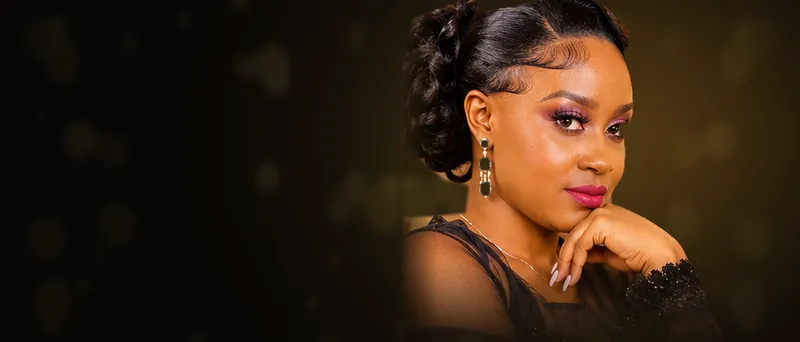
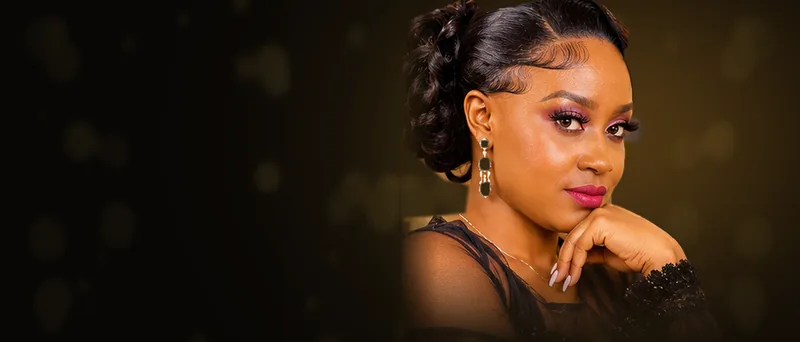
Theme 1.152.2: slide 1 right eye restored in full from the branding PDF render (the PDF cut-out clipped its outer corner); hero image URLs carry the theme version so browsers drop the old photo

diff --git a/nura-beauty/style.css b/nura-beauty/style.css
@@ -4,7 +4,7 @@ Theme URI: https://nurabeauty.co.ke
 Author: NURA - The House of Radiant Confidence
 Author URI: https://nurabeauty.co.ke
 Description: NURA Beauty is a premium luxury WooCommerce theme built for high-end wig and beauty ecommerce in Kenya and internationally. Editorial, minimal, fast and conversion-focused. Includes one-click required-plugin installation and sample data on activation. Design language: Apple meets Chanel meets Sephora. Use the child theme (NURA Beauty Child) for all customisations.
-Version: 1.152.1
+Version: 1.152.2
 Requires at least: 6.2
 Tested up to: 6.6
 Requires PHP: 7.4

diff --git a/nura-beauty/inc/nura-speed.php b/nura-beauty/inc/nura-speed.php
@@ -31,8 +31,8 @@ add_action( 'wp_head', function () {
 	if ( ! nura_speed_on() || ! is_front_page() || ! defined( 'NURA_URI' ) ) {
 		return;
 	}
-	echo '<link rel="preload" as="image" href="' . esc_url( NURA_URI . 'assets/images/hero-owner-m.webp' ) . '" media="(max-width: 768px)" fetchpriority="high">' . "\n"; // 1.146.0: 800 px phone version (10 KB).
-	echo '<link rel="preload" as="image" href="' . esc_url( NURA_URI . 'assets/images/hero-owner.webp' ) . '" media="(min-width: 769px)" fetchpriority="high">' . "\n";
+	echo '<link rel="preload" as="image" href="' . esc_url( NURA_URI . 'assets/images/hero-owner-m.webp?v=' . NURA_VERSION ) . '" media="(max-width: 768px)" fetchpriority="high">' . "\n"; // 1.146.0: 800 px phone version (10 KB).
+	echo '<link rel="preload" as="image" href="' . esc_url( NURA_URI . 'assets/images/hero-owner.webp?v=' . NURA_VERSION ) . '" media="(min-width: 769px)" fetchpriority="high">' . "\n";
 }, 1 );
 
 /* 2. Contact Form 7 only where a CF7 form is used. */

diff --git a/nura-beauty/front-page.php b/nura-beauty/front-page.php
@@ -119,7 +119,7 @@ $wigs_url = nura_home_cat_url( 'wigs' );
  */
 $slides = array(
 	array( // Owner slide (1.136.0), first since 1.137.0 (owner request 14 Nov 2026); preloaded as the LCP image.
-		'img'     => NURA_URI . 'assets/images/hero-owner.webp',
+		'img'     => NURA_URI . 'assets/images/hero-owner.webp?v=' . NURA_VERSION,
 		'class'   => 'nura-slide--owner',
 		'eyebrow' => __( 'NURA Beauty • Wig Shop & Installation Studio', 'nura-beauty' ),
 		'title'   => __( 'The House of Radiant Confidence', 'nura-beauty' ),

diff --git a/nura-beauty/inc/enqueue.php b/nura-beauty/inc/enqueue.php
@@ -89,7 +89,7 @@ function nura_preload_lcp() {
 	}
 	$hero = function_exists( 'nura_opt' ) ? nura_opt( 'nura_hero_image' ) : '';
 	if ( empty( $hero ) ) {
-		$hero = NURA_URI . 'assets/images/hero-owner.webp'; // 1.137.0: owner slide is first.
+		$hero = NURA_URI . 'assets/images/hero-owner.webp?v=' . NURA_VERSION; // 1.137.0: owner slide is first.
 	}
 	printf( '<link rel="preload" as="image" href="%s" fetchpriority="high" />' . "\n", esc_url( $hero ) );
 }

diff --git a/nura-beauty/functions.php b/nura-beauty/functions.php
@@ -12,7 +12,7 @@ if ( ! defined( 'ABSPATH' ) ) {
 	exit;
 }
 
-define( 'NURA_VERSION', '1.152.1' );
+define( 'NURA_VERSION', '1.152.2' );
 define( 'NURA_DIR', trailingslashit( get_template_directory() ) );
 define( 'NURA_URI', trailingslashit( get_template_directory_uri() ) );
 
